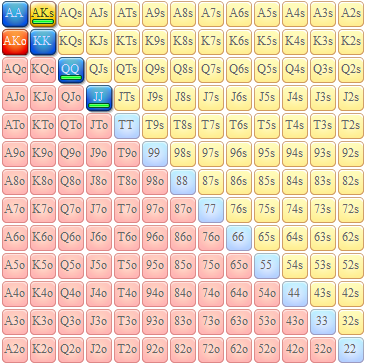
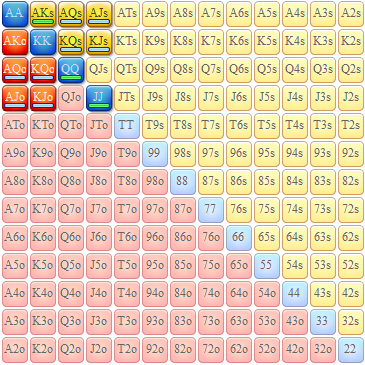
added widedning range for open 4bet

diff --git a/js/structure.js b/js/structure.js
@@ -204,7 +204,7 @@ const struct = {
     "open 4bet": [
       ['vs 5%', 'Green: call vs weak / 4bet vs good'],
       ['vs 7%', 'Green: call vs weak / 4bet vs good'],
-      ['vs 10%', 'Green: call vs weak / 4bet vs good']
+      ['vs 10%', 'Green: call vs weak / 4bet vs good <br /> Gray: possible widening vs reg+fish']
     ],
     squeeze: [
       // 'sq reg+fish OOP', 
